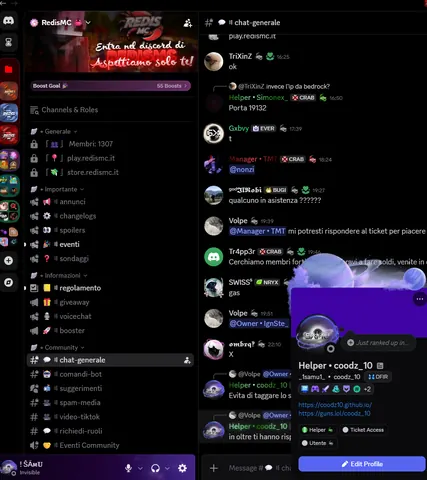
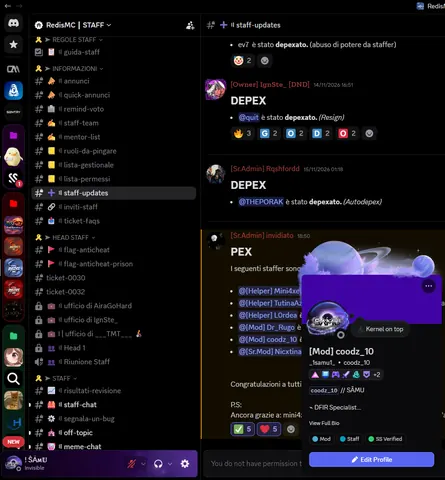
Update RedisMC role to Mod · SS Verified and refresh proof image

diff --git a/main.js b/main.js
@@ -117,7 +117,7 @@ console.log('ehi, stai guardando il codice. se ti serve qualcosa scrivimi su dis
       expCatDiscord: '[ DISCORD ]',
       expGroupMinecraft: 'MINECRAFT',
       expGroupDiscord: 'DISCORD · DS',
-      expRedisRole: 'Helper',
+      expRedisRole: 'Mod · SS Verified',
       expRedisStatus: 'attivo',
       expElysianRole: 'SS Verified',
       expElysianStatus: 'attivo',
@@ -171,7 +171,7 @@ console.log('ehi, stai guardando il codice. se ti serve qualcosa scrivimi su dis
       expCatDiscord: '[ DISCORD ]',
       expGroupMinecraft: 'MINECRAFT',
       expGroupDiscord: 'DISCORD · DS',
-      expRedisRole: 'Helper',
+      expRedisRole: 'Mod · SS Verified',
       expRedisStatus: 'active',
       expElysianRole: 'SS Verified',
       expElysianStatus: 'active',
@@ -205,7 +205,7 @@ console.log('ehi, stai guardando il codice. se ti serve qualcosa scrivimi su dis
       index: '01',
       title: 'RedisMC',
       category: 'minecraft',
-      role: { it: 'Helper', en: 'Helper' },
+      role: { it: 'Mod · SS Verified', en: 'Mod · SS Verified' },
       stars: '',
       status: { it: 'attivo', en: 'active' },
       period: { it: 'da ottobre 2026', en: 'since october 2026' },

diff --git a/index.html b/index.html
@@ -216,7 +216,7 @@
                     <span class="row-link__index mono">01</span>
                     <div class="row-link__meta">
                       <h2 class="row-link__title">RedisMC</h2>
-                      <p class="row-link__sub mono" data-i18n="expRedisRole">Helper</p>
+                      <p class="row-link__sub mono" data-i18n="expRedisRole">Mod · SS Verified</p>
                     </div>
                   </div>
                   <div class="row-link__right mono">
